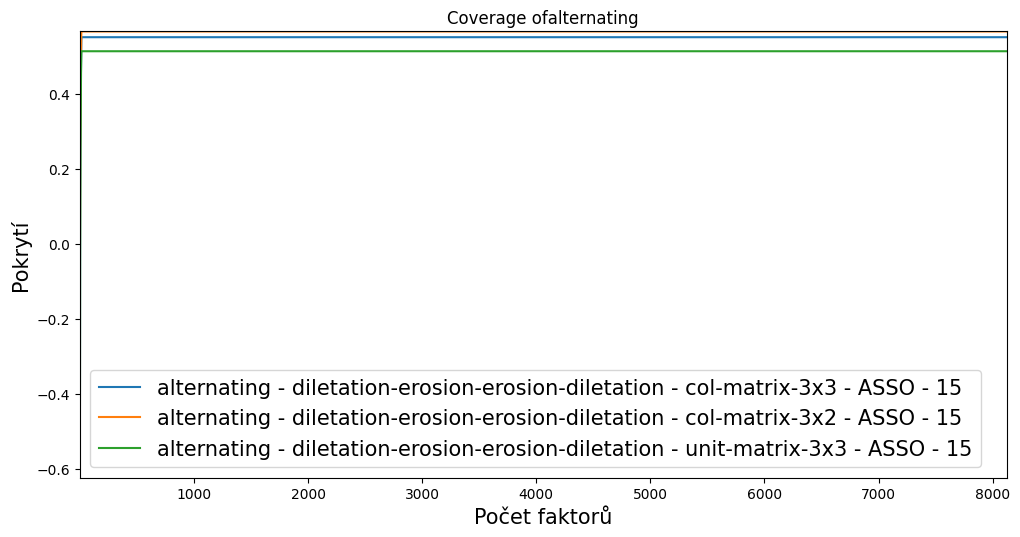
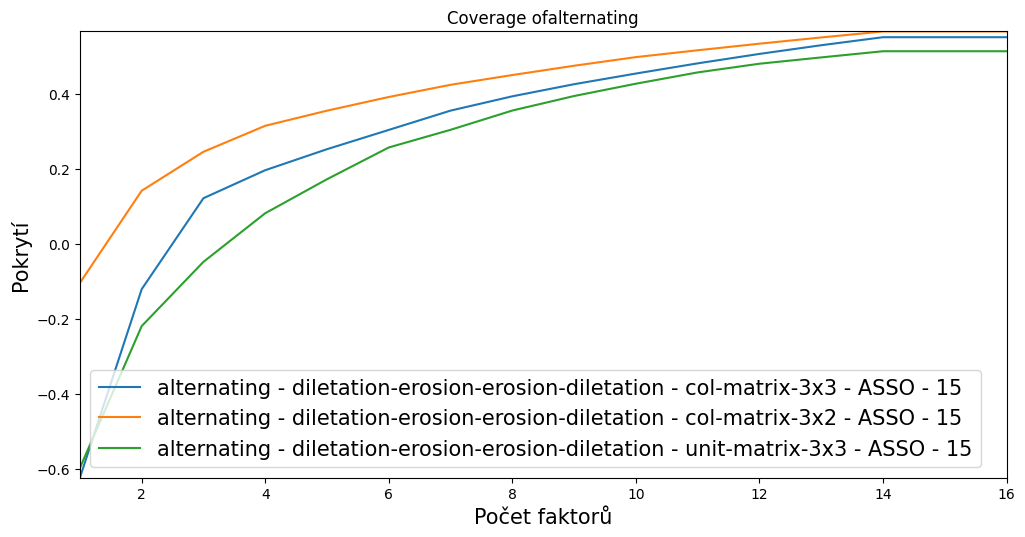
mush 5

diff --git a/coverage-graph-asso.py b/coverage-graph-asso.py
@@ -5,10 +5,9 @@ import matplotlib
 from coverage_guality import coverage_guality
 from matrix_similarity import matrix_similarity
 
-types = ["barycenter-bfp", "alternating", "barycenter", "barycenter-bfp-alternating", "spectral-ordering-pearson-bfp-fix"]
-filters = [("square-filter",["0.2", "0.3", "0.4", "0.5", "0.35"] ), 
-           ("diletation-erosion",["col-matrix-3x3", "col-matrix-3x2", "unit-matrix-3x3"]), 
-           ("erosion-diletation",["col-matrix-3x3", "col-matrix-3x2", "unit-matrix-3x3"])]
+types = ["alternating"]
+filters = [("square-filter",["0.2", "0.3", "0.4", "0.5", "0.35"] ),
+	   ("diletation-erosion-erosion-diletation",["col-matrix-3x3", "col-matrix-3x2", "unit-matrix-3x3"])]
 folders = ["mushroom"] #"mushroom" export zvlast kvuli roztazeni , "paleo", "zoo", "healthcare"
 factors = ["5", "10", "15"]
 
